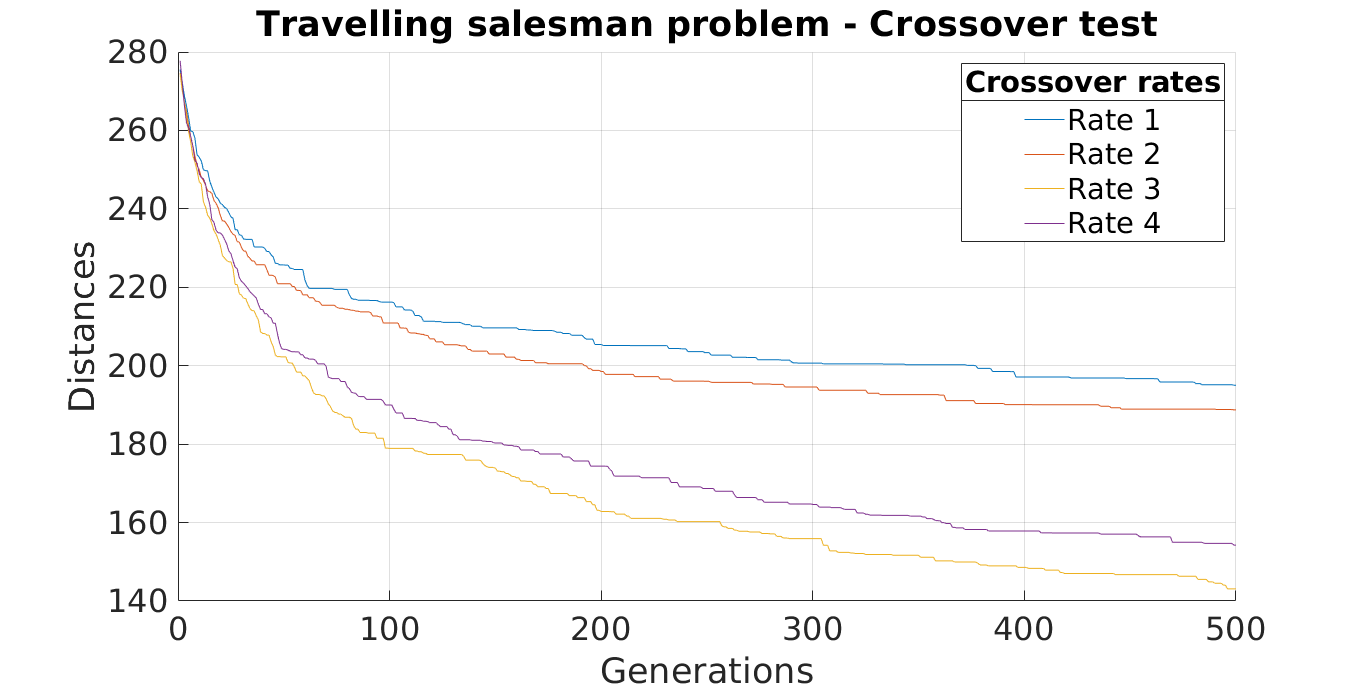
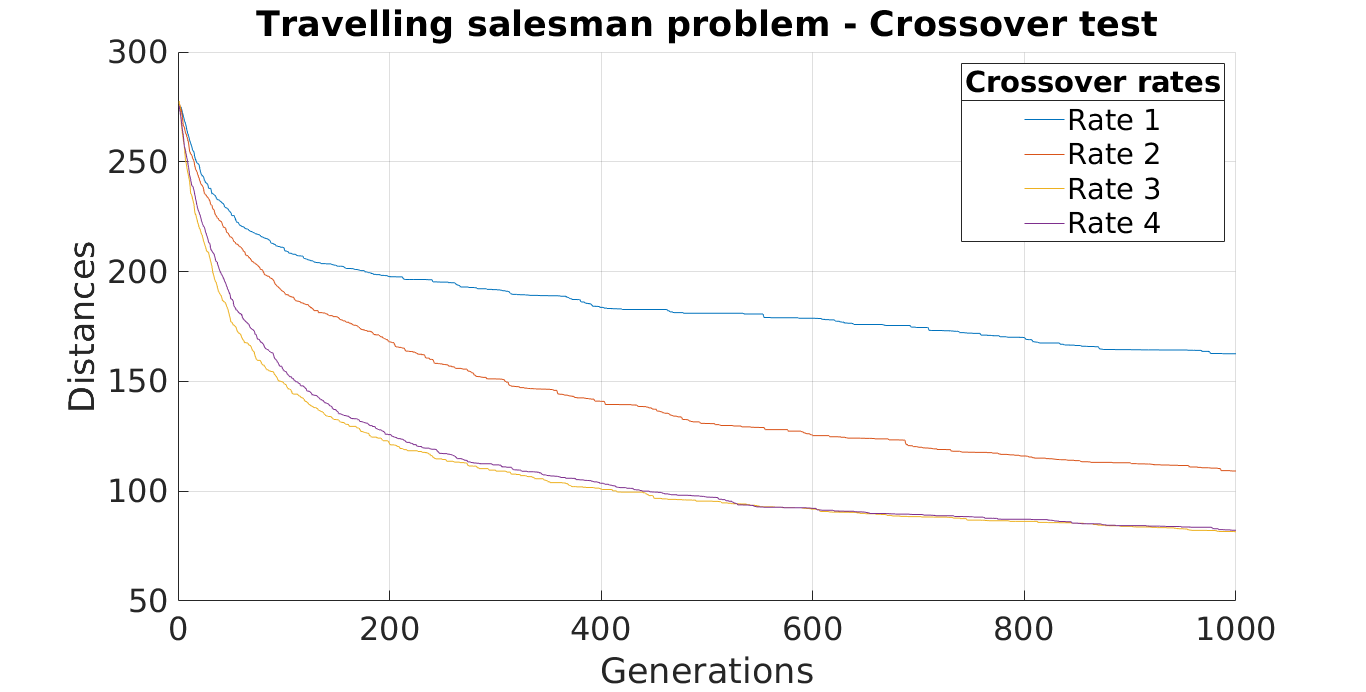
[2 Assignment] Updating figures for PDF

diff --git a/2_assignment/code/tsp_experiment.m b/2_assignment/code/tsp_experiment.m
@@ -1,31 +1,31 @@
 %% Run the algorithm once
 clear;
-output = tsp(0.99, 0.01, 1000, true); % Run with hyperparameters
+output = tsp(0.9, 0.01, 2000, true); % Run with hyperparameters
 
 %% Mutation test -> Run experiment multiple times
 clear; 
-num_generations = 500;
+num_generations = 1000;
 
 parfor iExp = 1:30
-   output = tsp(0.8, 0.01, num_generations, false);
+   output = tsp(0.99, 0.01, num_generations, false);
    fitness(iExp,:) = output.best_distances;
 end
 result_1 = fitness;
 
 parfor iExp = 1:30
-   output = tsp(0.8, 0.1, num_generations, false);
+   output = tsp(0.99, 0.1, num_generations, false);
    fitness(iExp,:) = output.best_distances;
 end
 result_2 = fitness;
 
 parfor iExp = 1:30
-   output = tsp(0.8, 0.99, num_generations, false);
+   output = tsp(0.99, 0.99, num_generations, false);
    fitness(iExp,:) = output.best_distances;
 end
 result_3 = fitness;
 
 parfor iExp = 1:30
-   output = tsp(0.8, 0.5, num_generations, false);
+   output = tsp(0.99, 0.5, num_generations, false);
    fitness(iExp,:) = output.best_distances;
 end
 result_4 = fitness;
@@ -54,28 +54,28 @@ grid on; xlabel('Generations'); ylabel('Distances'); title('Travelling salesman 
 
 %% Crossover test -> Run experiment multiple times
 clear; 
-num_generations = 500;
+num_generations = 1000;
 
 parfor iExp = 1:30
-   output = tsp(0.01, 0.1, num_generations, false);
+   output = tsp(0.01, 0.01, num_generations, false);
    fitness(iExp,:) = output.best_distances;
 end
 result_1 = fitness;
 
 parfor iExp = 1:30
-   output = tsp(0.1, 0.1, num_generations, false);
+   output = tsp(0.1, 0.01, num_generations, false);
    fitness(iExp,:) = output.best_distances;
 end
 result_2 = fitness;
 
 parfor iExp = 1:30
-   output = tsp(0.99, 0.1, num_generations, false);
+   output = tsp(0.99, 0.01, num_generations, false);
    fitness(iExp,:) = output.best_distances;
 end
 result_3 = fitness;
 
 parfor iExp = 1:30
-   output = tsp(0.5, 0.1, num_generations, false);
+   output = tsp(0.5, 0.01, num_generations, false);
    fitness(iExp,:) = output.best_distances;
 end
 result_4 = fitness;

diff --git a/2_assignment/code/tsp.m b/2_assignment/code/tsp.m
@@ -80,7 +80,12 @@ if plot_single
     subplot(1,2,1);
         plotTsp(output.best(:,end)', coordinates);
         title('Best individual')
+             set(gca,'Fontsize',18);
+
     subplot(1,2,2);
         plot(1:1:p.maxGen, output.best_distances);
-        title('Learning curve')
+        title('Learning curve - TSP single run')
+     set(gca,'Fontsize',18);
+     
+     grid on; xlabel('Generations'); ylabel('Distances');
 end
